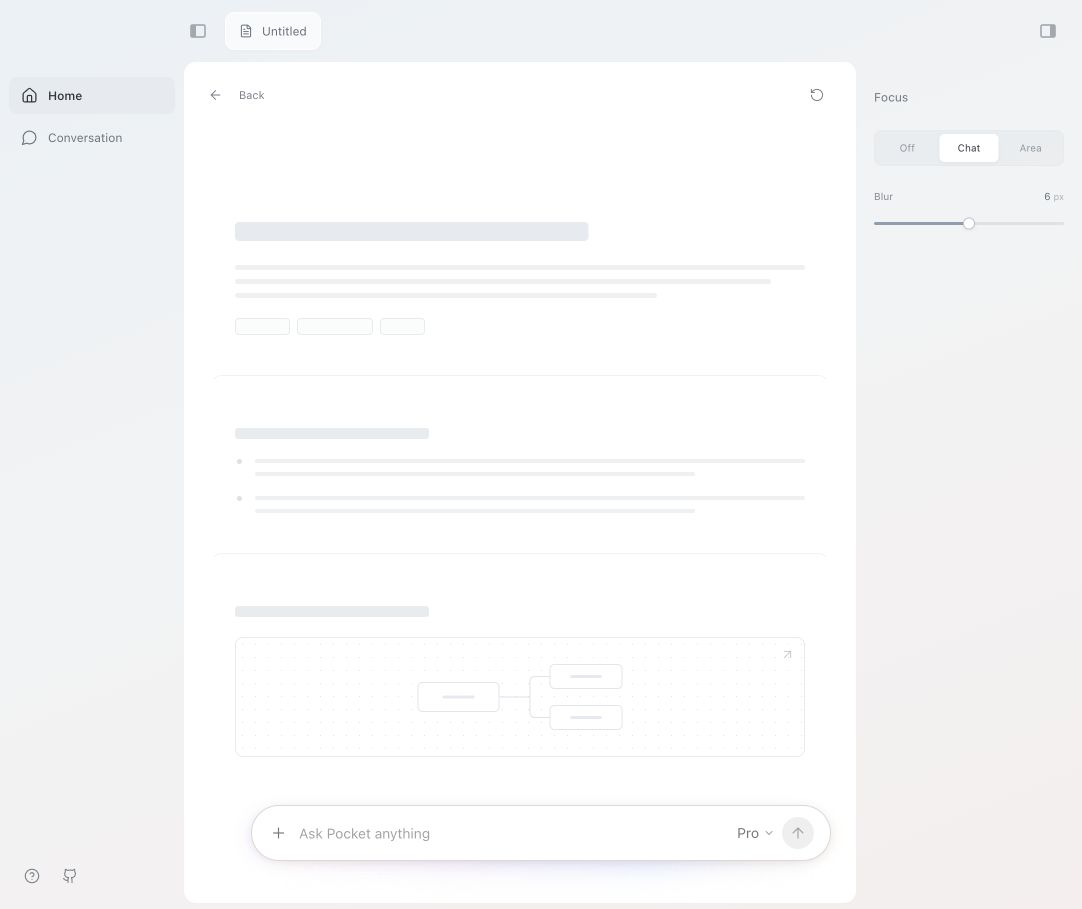
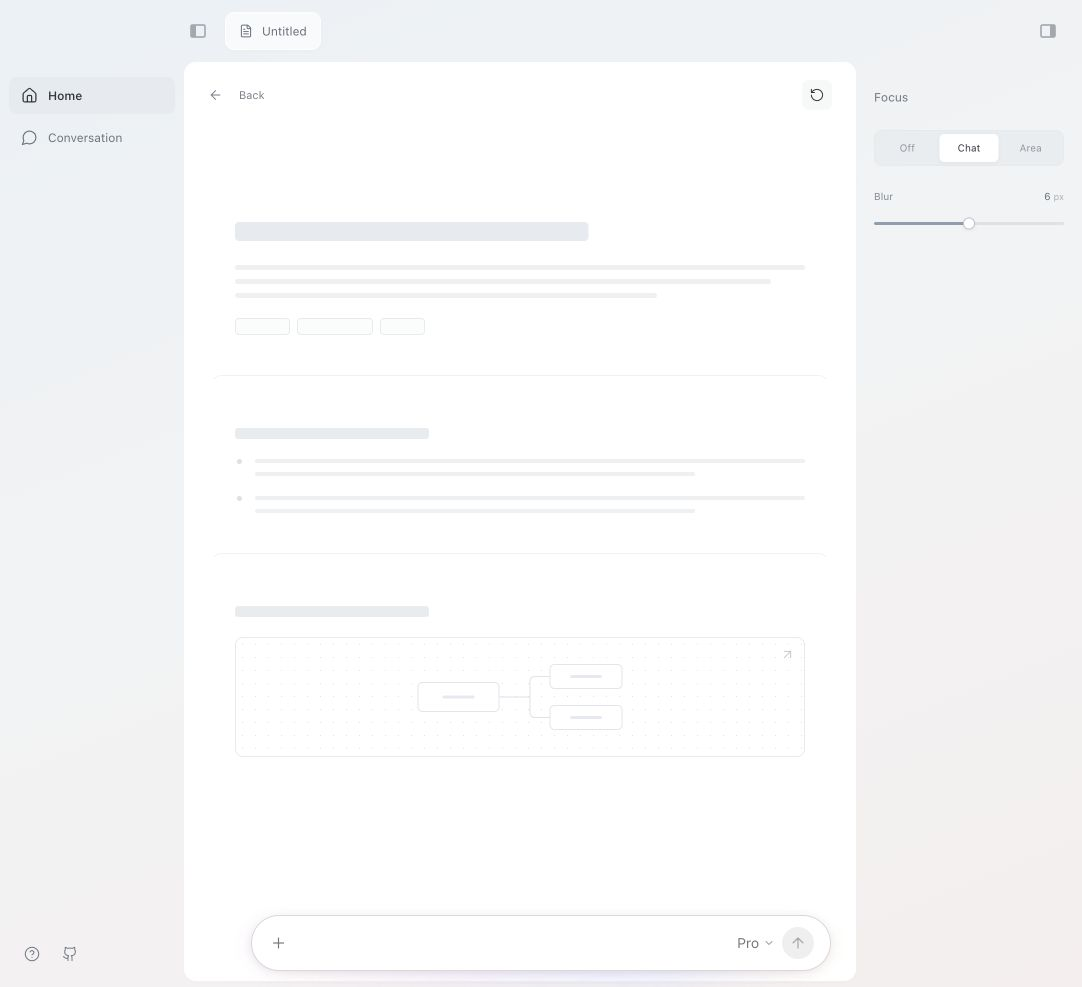
Keep selected cards clear during hover and remove input placeholder

diff --git a/src/components/Composer.tsx b/src/components/Composer.tsx
@@ -386,7 +386,7 @@ export function Composer({
           <input
             ref={inputRef}
             aria-label="Message"
-            placeholder={expanded ? 'Reply to Pocket' : 'Ask Pocket anything'}
+            placeholder={expanded ? 'Reply to Pocket' : ''}
             value={draft}
             maxLength={2000}
             autoComplete="off"

diff --git a/src/styles.css b/src/styles.css
@@ -314,7 +314,8 @@ svg {
   opacity: 1;
 }
 @media (hover: hover) and (pointer: fine) {
-  .has-hover-focus:has(.document-region:hover) .document-region:not(:hover) {
+  .has-hover-focus:has(.document-region:hover)
+    .document-region:not(:hover):not(.is-selected) {
     filter: blur(var(--focus-blur));
     opacity: 0.56;
   }

diff --git a/README.md b/README.md
@@ -23,7 +23,7 @@ Requires Node.js 22.12+ and npm. Open the local URL printed by Vite.
 
 - **Move:** drag the edge of the input pill, or the conversation header. The panel stays inside the visible viewport.
 - **Expand:** choose Open conversation in the `+` menu, use the sidebar, or send a message.
-- **Hover:** move over a content card to keep it sharp while the other cards soften. Leaving the card restores the previous focus; Off disables hover focus. Touch screens keep tap-to-select behavior.
+- **Hover:** move over a content card to keep it sharp. A selected card also stays clear while the remaining cards soften. Leaving the card restores the previous focus; Off disables hover focus. Touch screens keep tap-to-select behavior.
 - **Focus:** choose Chat to soften the page, or Area to keep one outlined section sharp. Off restores the canvas.
 - **Tune:** adjust the blur from 0 to 12px.
 - **Dock:** use the `+` menu to place chat at the bottom left, centre, or right.

diff --git a/tasks/lessons.md b/tasks/lessons.md
@@ -6,4 +6,4 @@
 - Match the relevant parts of a reference, then remove actions that do not support this prototype. Response-style shortcuts add noise to an experiment about movable chat and focus.
 - Collapsing a side panel should preserve the reference's narrow outer frame and rounded workspace corners. Match the filled split-panel toggle silhouette instead of adding directional arrows.
 - Follow the latest request for page-content visibility: show or hide the content blocks while preserving the accepted chat controls, panel icons, and workspace frame.
-- Hover focus is temporary: reveal the hovered card without changing the selected context, restore the prior focus on exit, and respect the Off control and touch input.
+- Hover focus is temporary and additive: keep the selected card clear while revealing the hovered card, without changing the selected context. Restore the prior focus on exit, and respect the Off control and touch input.

diff --git a/tasks/todo.md b/tasks/todo.md
@@ -1,5 +1,13 @@
 # Float implementation
 
+## Preserve the selected card during hover
+
+- [x] Keep the selected card and hovered card clear together; blur only the remaining cards.
+- [x] Remove the compact input placeholder while preserving its accessible label and controls.
+- [x] Verify hover and pointer exit, and refresh the preview.
+
+Browser-verified the selected Notes card stays clear while hovering Overview, with Connections blurred. Leaving Overview returns to Notes-only focus. The compact input has no placeholder and retains its Message accessible label. Production build and formatting checks pass.
+
 ## Hover focus
 
 - [x] Keep the hovered card sharp and soften the surrounding cards using the current blur strength.
